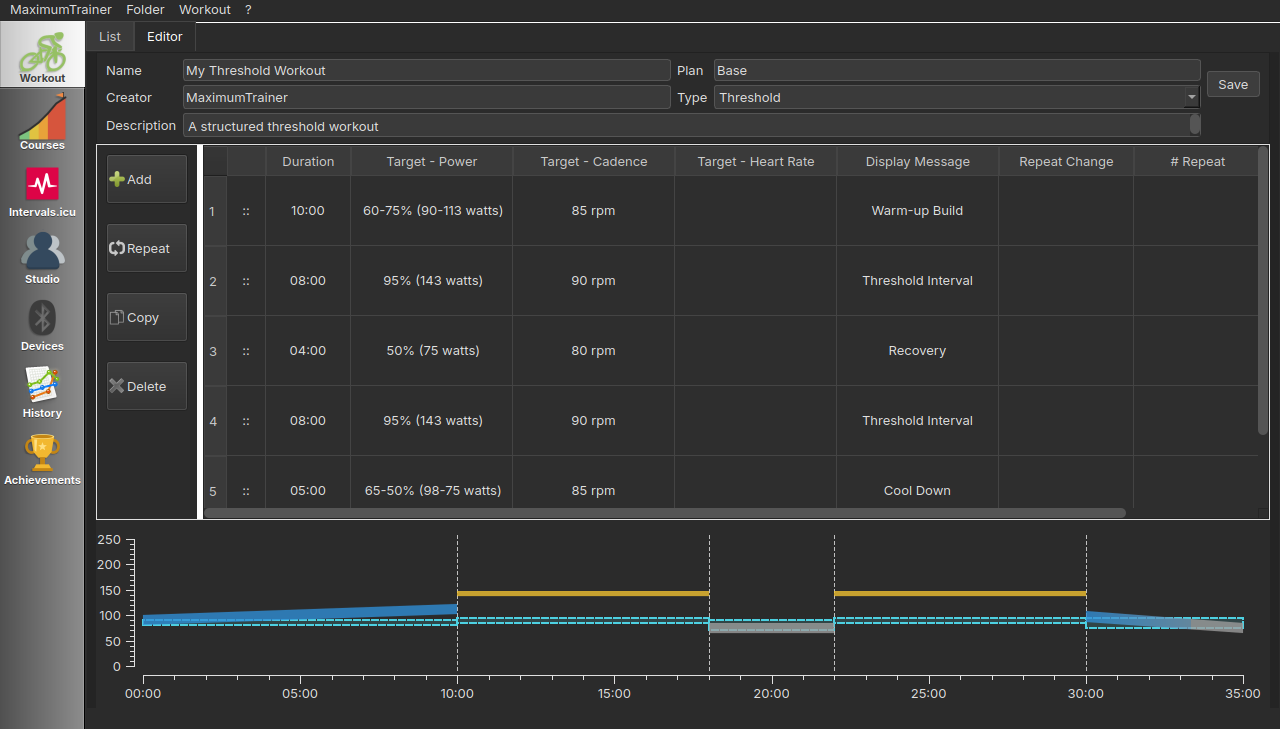
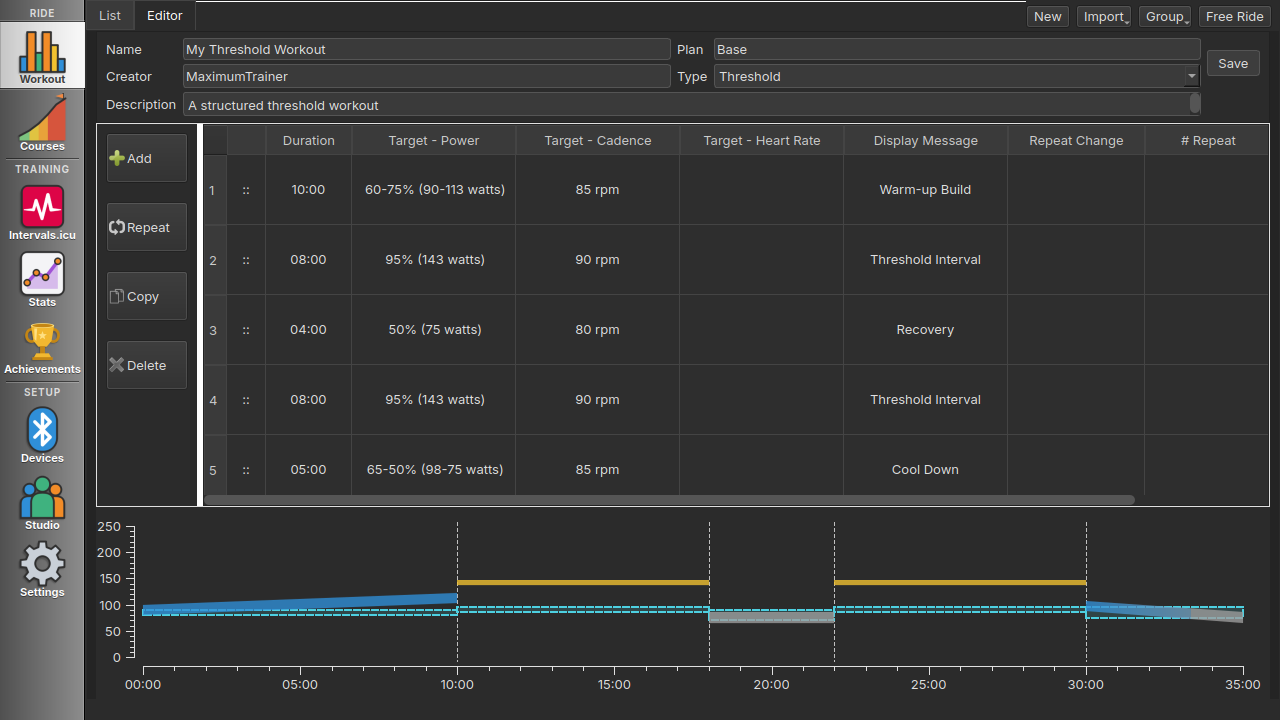
fix(group): only the Start button starts a group ride; docs and screenshots for the new layout

diff --git a/docs/user-guide.html b/docs/user-guide.html
@@ -517,10 +517,9 @@
         </p>
 
         <ol class="steps">
-          <li>Open <strong>MaximumTrainer → Preferences</strong> from the menu bar (or <kbd>Ctrl</kbd>+<kbd>,</kbd>).</li>
-          <li>Select the <strong>Profile</strong> category.</li>
-          <li>Enter your <strong>FTP</strong> (watts), <strong>LTHR</strong> (lactate-threshold heart rate, bpm), and <strong>weight</strong> (kg).</li>
-          <li>Click <strong>OK</strong>.</li>
+          <li>Click <strong>Settings</strong> in the left bar (or press <kbd>Ctrl</kbd>+<kbd>,</kbd>).</li>
+          <li>Select <strong>Profile</strong>.</li>
+          <li>Enter your <strong>FTP</strong> (watts), <strong>LTHR</strong> (lactate-threshold heart rate, bpm), and <strong>weight</strong> (kg). Changes apply right away.</li>
         </ol>
 
         <p>
@@ -592,8 +591,8 @@
 
         <figure class="guide-screenshot">
           <img src="assets/screenshots/screenshot_devices.png"
-               alt="Devices tab — saved sensors per role, plus trainer ERG, dropout, and battery settings" />
-          <figcaption>The Devices tab — pair a device per role with <strong>Scan…</strong>, toggle ERG control, and set sensor-dropout and battery options</figcaption>
+               alt="Devices tab — saved sensors per role, plus trainer ERG and simulated sensors" />
+          <figcaption>The Devices tab — pair a device per role with <strong>Scan…</strong>, toggle ERG control, or use simulated sensors</figcaption>
         </figure>
         <ol class="steps">
           <li>Wake the sensor you want to pair (see the table above).</li>
@@ -749,7 +748,7 @@
         <p>
           Maximum Trainer can drive workouts from an <strong>FTMS-compatible rowing
           machine</strong>. Enable <strong>Rowing mode (Beta)</strong> in
-          <strong>MaximumTrainer → Preferences → General</strong>:
+          <strong>Settings → General</strong>:
         </p>
         <ul>
           <li>The <strong>Devices</strong> tab shows a <strong>Rower</strong> slot in place of the
@@ -855,14 +854,14 @@
 
         <h3>Importing a single workout file</h3>
         <ol class="steps">
-          <li>Go to <strong>Workout → Import → Single Workout</strong> in the menu bar.</li>
+          <li>On the <strong>Workout</strong> tab, click <strong>Import → Single Workout</strong>.</li>
           <li>Navigate to your <code>.erg</code> or <code>.mrc</code> file and click <strong>Open</strong>.</li>
           <li>Maximum Trainer converts the file to its native XML format and adds it to your library.</li>
         </ol>
 
         <h3>Importing multiple workout files</h3>
         <ol class="steps">
-          <li>Go to <strong>Workout → Import → Multiple Workouts</strong>.</li>
+          <li>On the <strong>Workout</strong> tab, click <strong>Import → Multiple Workouts</strong>.</li>
           <li>Select one or more <code>.erg</code> / <code>.mrc</code> files.</li>
           <li>All selected files are converted and batch-imported at once.</li>
         </ol>
@@ -935,8 +934,7 @@
                 <td><strong>ERG</strong></td>
                 <td>
                   The app continuously adjusts trainer resistance so your actual power output
-                  matches the interval target. You only need to control cadence. If your cadence
-                  drops under 40 rpm or you pause, ERG lets go until you spin up again (optional, Devices, off by default).
+                  matches the interval target. You only need to control cadence.
                 </td>
                 <td>Structured interval workouts with power targets</td>
               </tr>
@@ -1042,7 +1040,7 @@
 
         <h3>How the workout starts</h3>
         <p>
-          Choose the trigger in the workout's <strong>Settings</strong> (the gear icon) under
+          Choose the trigger in <strong>Settings → Start &amp; alerts</strong> under
           <strong>Start workout when:</strong>
         </p>
         <div class="guide-table-wrap">
@@ -1087,14 +1085,15 @@
         <h3>Settings during a workout</h3>
         <p>
           Press the <strong>Settings</strong> gear in the workout player to change options without
-          interrupting the session (widgets and their style, timers, start trigger, Multimedia panel,
-          Radios). See <a href="#workout-config">Workout settings (in the player)</a> for the full list.
+          interrupting the session (radio, sounds, panels, graph, video, start and alerts). In a course it
+          shows only radio and sounds. See <a href="#workout-config">Workout settings (in the player)</a> for the full list.
         </p>
 
         <h3>The media panel</h3>
         <p>
-          The large panel beside the power graph can show one of two things. Choose which in the
-          workout's <strong>Settings</strong> (the gear icon) → <strong>Multimedia</strong>:
+          The large panel beside the power graph can show one of two things. Choose which in
+          <strong>Settings → Video &amp; radio</strong>, or in the workout's <strong>Settings</strong> under
+          <strong>Video</strong>:
         </p>
         <div class="guide-table-wrap">
           <table class="guide-table">
@@ -1109,8 +1108,8 @@
         <h3>Radio Player</h3>
         <p>
           Internet radio is separate from the panel above and plays on any mode. Its controls sit at
-          the <strong>top-right of the workout player</strong>; add your own stations in the workout's
-          <strong>Settings → Radios</strong> (they're saved for next time). You can also play, pause,
+          the <strong>top-right of the workout player</strong>; try stations and add your own in
+          <strong>Settings → Video &amp; radio</strong>. You can also play, pause,
           or skip with the <a href="#tips">radio shortcuts</a>.
         </p>
 
@@ -1137,7 +1136,7 @@
         <ol class="steps">
           <li>In the <strong>Workout</strong> tab, right-click a workout and choose
               <strong>Host Group Workout…</strong> (or select it and use
-              <strong>Workout → Host Group Workout…</strong> in the menu bar).</li>
+              <strong>Group → Host Group Workout…</strong> at the top right).</li>
           <li>Choose your connection method (<strong>BTLE Device</strong> or
               <strong>Simulation</strong>) as for any workout.</li>
           <li>The workout player opens with a <strong>Group ride</strong> column on the right.
@@ -1145,13 +1144,12 @@
               <code>7KQ2</code>) and send it to your friends.</li>
           <li>Riders appear in the column as they join. Someone still pairing their sensors shows
               <em>connecting sensors…</em> under their name.</li>
-          <li>When everyone is in, click <strong>Start group ride</strong> (or press
-              <kbd>Enter</kbd>). Everyone gets the same 10-second countdown and starts together.</li>
+          <li>When everyone is in, click <strong>Start group ride</strong>. Everyone gets the same 10-second countdown and starts together.</li>
         </ol>
 
         <h3>Joining a group workout</h3>
         <ol class="steps">
-          <li>Choose <strong>Workout → Join Group Workout…</strong> (<kbd>Ctrl</kbd>+<kbd>J</kbd>).</li>
+          <li>On the <strong>Workout</strong> tab, choose <strong>Group → Join Group Workout…</strong> (<kbd>Ctrl</kbd>+<kbd>J</kbd>).</li>
           <li>Enter the room code from the host and the name the other riders will see, then click
               <strong>Join</strong>. The host's workout downloads automatically.</li>
           <li>Choose your connection method and pair your sensors as usual.</li>
@@ -1230,7 +1228,7 @@
               <strong>Est. time</strong> column is your time riding alone at 70 % of your FTP (hover it for details).</li>
           <li>Set the number of <strong>Bots</strong> (20 by default, up to 50) and their <strong>Bot strength</strong>
               range in W/kg. Signed in with Intervals.icu, your weight comes from your profile there (change it there and restart
-              the app); otherwise you can edit it on this page or in Preferences.</li>
+              the app); otherwise you can edit it on this page or in Settings.</li>
           <li><strong>Double-click</strong> the course (or press <kbd>Enter</kbd>), choose your connection method, and
               click <strong>Start Course</strong>.</li>
         </ol>
@@ -1280,7 +1278,7 @@
           <strong>Upload activity</strong> section (see <a href="#uploading">Uploading</a>) and
           <strong>Heart rate on this workout</strong>: your average heart rate on the last six rides of
           it, with your lowest marked, and where today's efficiency ranks. The activity is written as a
-          <code>.fit</code> file to your history folder; its numbers match the History tab.
+          <code>.fit</code> file to your history folder; its numbers match the Stats tab.
         </p>
         <p>
           <strong>Keep riding:</strong> once the workout finishes, a controlled trainer leaves ERG so you
@@ -1305,14 +1303,14 @@
 
         <div class="callout">
           <strong>Where are my files?</strong> Activity files are saved to your system's
-          Documents folder under <code>MaximumTrainer / History</code>.
+          Documents folder under <code>MaximumTrainer / History</code>. Open it from <strong>Settings → Files &amp; logs</strong>.
         </div>
 
         <p>
-          The <strong>History</strong> tab lists every saved ride. At the top it shows your weekly goal, this week's
+          The <strong>Stats</strong> tab shows your weekly goal, this week's
           rides, time, TSS and distance (each compared with last week) and a bar chart of your
-          weekly TSS over the last 12 weeks - hover a bar for that week's totals. Double-click a
-          ride to see its graphs, laps and the achievements you earned on it.
+          weekly TSS over the last 12 weeks - hover a bar for that week's totals. Below, <strong>History</strong>
+          lists every saved ride: double-click a ride to see its graphs, laps and the achievements you earned on it.
         </p>
         <p>
           <strong>Weekly goal:</strong> click <em>Set a weekly goal</em> (or <em>change</em>) on the
@@ -1363,7 +1361,7 @@
               (<em>your best of the last 90 days was 298 W</em>) or <em>New all-time 5 min best</em>.
               It appears a few seconds after the effort ends, with its peak value, and each record
               is announced at most once per ride. Your first ride has nothing to beat, so it is quiet.
-              See them at the top of the Achievements tab and in History &gt; <a href="#saving-activity">Power Curve</a>.</li>
+              See them at the top of the Achievements tab and in Stats &gt; <a href="#saving-activity">Power Curve</a>.</li>
           <li><strong>After the ride</strong>, new achievements are listed on the <em>Workout Complete!</em>
               panel (workout counts, total hours and distance, streaks, W/kg, group workouts you hosted or joined, your first test, a raised FTP...).</li>
         </ul>
@@ -1393,8 +1391,7 @@
 
         <h3>Linking a platform (one-time setup)</h3>
         <ol class="steps">
-          <li>Open <strong>Preferences</strong>.</li>
-          <li>Select the <strong>Strava</strong> category.</li>
+          <li>Open <strong>Settings → Accounts</strong>.</li>
           <li>Click <strong>Connect to Strava</strong>.</li>
           <li>Your system browser opens for you to authorise Maximum Trainer. Log in, click <strong>Authorise</strong>, then return to the app.</li>
           <li>Maximum Trainer now shows Strava as <em>linked</em> with a green tick.</li>
@@ -1406,7 +1403,7 @@
           <li><strong>Auto-upload on</strong> — the activity uploads on its own and the panel shows the status; nothing to click.</li>
           <li><strong>Auto-upload off</strong> — the panel shows an <strong>Upload to Strava</strong> / <strong>Upload to Intervals.icu</strong> button; click it to upload the <code>.fit</code> file.</li>
         </ul>
-        <p>Toggle auto-upload per platform in <strong>Preferences → Strava</strong> and <strong>Preferences → Intervals.icu</strong>.</p>
+        <p>Toggle auto-upload per platform in <strong>Settings → Accounts</strong>.</p>
 
       </section>
 
@@ -1414,58 +1411,37 @@
       <section class="guide-section" id="settings">
         <h2>⚙ Settings</h2>
         <p>
-          Maximum Trainer has <strong>two</strong> settings dialogs. <strong>Preferences</strong>
-          (<strong>MaximumTrainer → Preferences</strong>, or <kbd>Ctrl</kbd>+<kbd>,</kbd>) holds your account-wide options, organised
-          into the categories below. Display options that apply only while you ride live in a separate
-          dialog — see <a href="#workout-config">Workout settings</a> further down.
+          Every option is in the <strong>Settings</strong> tab of the left bar
+          (<kbd>Ctrl</kbd>+<kbd>,</kbd>). Changes apply right away.
         </p>
 
         <figure class="guide-screenshot">
           <img src="assets/screenshots/screenshot_settings.png"
-               alt="Preferences dialog — General, Profile and Logging app settings, with Strava and Intervals.icu integrations grouped below" />
-          <figcaption>Preferences — app settings (General, Profile, Logging) above the divider; the Strava and Intervals.icu integrations below it</figcaption>
+               alt="The Settings tab: You, Ride and App sections, with the ride screen options open" />
+          <figcaption>The Settings tab</figcaption>
         </figure>
 
         <div class="guide-table-wrap">
           <table class="guide-table">
-            <thead><tr><th>Category</th><th>What you can configure</th></tr></thead>
+            <thead><tr><th>Section</th><th>What you can configure</th></tr></thead>
             <tbody>
-              <tr>
-                <td><strong>General</strong></td>
-                <td>Distance unit (km / miles), app theme (System / Light / Dark), "force the workout window to stay on top", and <a href="#rowing-beta">Rowing mode (Beta)</a></td>
-              </tr>
-              <tr>
-                <td><strong>Profile</strong></td>
-                <td>Your FTP (W), LTHR (bpm), and weight (kg) — used for training zones, W/kg, and ERG targets. Read-only when signed in with Intervals.icu (they come from your Intervals.icu profile).</td>
-              </tr>
-              <tr>
-                <td><strong>Logging</strong></td>
-                <td>
-                  Set the minimum log level, enable or disable writing to a log file, choose the log
-                  file path, and open the log folder. See
-                  <a href="#log-files">Log Files &amp; Troubleshooting</a> for default paths.
-                </td>
-              </tr>
-              <tr>
-                <td><strong>Strava</strong> <span style="opacity:.6">(integration)</span></td>
-                <td>Link / unlink your Strava account and toggle auto-upload of completed activities</td>
-              </tr>
-              <tr>
-                <td><strong>Intervals.icu</strong> <span style="opacity:.6">(integration)</span></td>
-                <td>Auto-upload of completed activities</td>
-              </tr>
+              <tr><td><strong>Profile</strong></td><td>Your FTP (W), LTHR (bpm), and weight (kg) — used for training zones, W/kg, and ERG targets. Read-only when signed in with Intervals.icu (they come from your Intervals.icu profile).</td></tr>
+              <tr><td><strong>Accounts</strong></td><td>Intervals.icu and Strava, auto-upload, and Log Out</td></tr>
+              <tr><td><strong>Start &amp; alerts</strong></td><td>How a workout starts, interval messages and summary, sensor dropout, battery warning</td></tr>
+              <tr><td><strong>Ride screen</strong></td><td>Top bar, bottom panels and graph lines</td></tr>
+              <tr><td><strong>Sounds</strong></td><td>Workout sounds, off-target alerts and volume</td></tr>
+              <tr><td><strong>Video &amp; radio</strong></td><td>The <a href="#workout-player">video / web</a> panel, and the radio stations</td></tr>
+              <tr><td><strong>General</strong></td><td>Distance unit, app theme, "force the workout window to stay on top", and <a href="#rowing-beta">Rowing mode (Beta)</a></td></tr>
+              <tr><td><strong>Files &amp; logs</strong></td><td>Open the rides and workouts folders; log level and log file. See <a href="#log-files">Log Files &amp; Troubleshooting</a>.</td></tr>
+              <tr><td><strong>Help &amp; about</strong></td><td>User guide, keyboard shortcuts, version</td></tr>
             </tbody>
           </table>
         </div>
 
         <h3 id="workout-config">Workout settings (in the player)</h3>
         <p>
-          Options that apply only while you ride live in their own dialog — open it with the
-          <strong>Settings</strong> gear in the workout player. There you choose which metric widgets
-          are shown (power, HR, cadence, speed, balance, SmO₂), the timer style, which lines the graph
-          draws, workout sounds and off-target alerts, the
-          <strong>Multimedia</strong> panel type (<a href="#workout-player">video / web</a>),
-          and your <strong>Radios</strong>.
+          The <strong>Settings</strong> gear in the workout player opens the same ride options while you
+          ride: radio, sounds, panels, graph, video, start and alerts.
         </p>
       </section>
 
@@ -1479,7 +1455,7 @@
         </p>
         <p>
           Riding with friends somewhere else? Use a <a href="#group-workouts">group workout</a>
-          (<strong>Workout → Host Group Workout…</strong>) instead, with Studio Mode off.
+          (<strong>Group → Host Group Workout…</strong>) instead, with Studio Mode off.
         </p>
 
         <figure class="guide-screenshot">
@@ -1529,7 +1505,7 @@
 
         <h3>Logging settings</h3>
         <p>
-          In <strong>Preferences → Logging</strong> you can set the <strong>Minimum level</strong>
+          In <strong>Settings → Files &amp; logs</strong> you can set the <strong>Minimum level</strong>
           (Verbose, Debug, Info, Warning, Error; Info is the default), turn
           <strong>Write log to file</strong> off or back on, and pick another file with
           <strong>Browse…</strong>. The line under the path shows the default file for your computer.
@@ -1674,7 +1650,7 @@
               </tr>
               <tr>
                 <td>Upload to Strava fails</td>
-                <td>Re-link your Strava account in Preferences → Strava. OAuth tokens expire; re-linking refreshes them.</td>
+                <td>Re-link your Strava account in Settings → Accounts. OAuth tokens expire; re-linking refreshes them.</td>
               </tr>
               <tr>
                 <td>No sound / internet radio silent on a fresh Windows install</td>
@@ -1737,7 +1713,7 @@
           <table class="guide-table">
             <thead><tr><th>Key</th><th>Action</th></tr></thead>
             <tbody>
-              <tr><td><kbd>Ctrl</kbd>+<kbd>,</kbd></td><td>Open Preferences</td></tr>
+              <tr><td><kbd>Ctrl</kbd>+<kbd>,</kbd></td><td>Open Settings</td></tr>
               <tr><td><kbd>Ctrl</kbd>+<kbd>N</kbd></td><td>Create new workout</td></tr>
               <tr><td><kbd>Ctrl</kbd>+<kbd>J</kbd></td><td>Join a group workout</td></tr>
               <tr><td><kbd>Ctrl</kbd>+<kbd>Q</kbd></td><td>Quit application</td></tr>
@@ -1872,7 +1848,7 @@
           If that folder cannot be written, the app writes the log to the system temp folder instead:
           <code>%TEMP%\MaximumTrainer.log</code> on Windows, and <code>$TMPDIR/MaximumTrainer.log</code>
           on macOS and Linux (on Linux that is usually <code>/tmp/MaximumTrainer.log</code>).
-          If you set a custom path in <strong>Preferences → Logging</strong>, the log moves there once the
+          If you set a custom path in <strong>Settings → Files &amp; logs</strong>, the log moves there once the
           configuration has loaded. See <a href="#log-files">Log Files &amp; Troubleshooting</a> for details.
         </p>
 

diff --git a/docs/index.html b/docs/index.html
@@ -264,9 +264,9 @@
 
         <div class="gallery-item">
           <img src="assets/screenshots/screenshot_settings.png"
-               alt="Preferences — account settings, profile, and integrations"
+               alt="Settings — every option in one place"
                loading="lazy" />
-          <div class="gallery-caption">Preferences — profile &amp; integrations</div>
+          <div class="gallery-caption">Settings — everything in one place</div>
         </div>
 
         <div class="gallery-item">

diff --git a/src/ui/workoutdialog.cpp b/src/ui/workoutdialog.cpp
@@ -1499,13 +1499,11 @@ void WorkoutDialog::start_or_pause_workout() {
         return;
     }
 
-    // In a group workout nobody starts alone: the host's Enter/Start schedules
-    // the shared start, and pedalling triggers wait for it.
-    if (!isWorkoutStarted && m_groupRide && m_groupRide->awaitingStart()) {
-        if (m_groupRide->isHost())
-            m_groupRide->requestStart();
+    // In a group workout only the host's Start group ride button schedules the
+    // shared start. Keys and pedalling never do: Enter also sends chat messages,
+    // and it would start the ride for everyone.
+    if (!isWorkoutStarted && m_groupRide && m_groupRide->awaitingStart())
         return;
-    }
 
     // If workout not started, we start it
     if (!isWorkoutStarted) {
@@ -2671,7 +2669,7 @@ void WorkoutDialog::setMessagePlot() {
             const qint64 remainingMs = m_groupRide->scheduledStartLocalMs() - QDateTime::currentMSecsSinceEpoch();
             groupMessage = tr("Group ride starts in %1 s").arg((qMax<qint64>(0, remainingMs) + 999) / 1000);
         } else if (m_groupRide->isHost()) {
-            groupMessage = tr("When everyone is ready, press Enter or Start group ride");
+            groupMessage = tr("When everyone is ready, click Start group ride");
         } else {
             groupMessage = tr("Waiting for the host to start the group ride");
         }

diff --git a/src/ui/mainwindow_harness.cpp b/src/ui/mainwindow_harness.cpp
@@ -356,10 +356,10 @@ void MainWindow::screenshotNextStep()
         qInfo() << "Screenshot: main_window";
         ftb->setCurrentIndex(m_tabs.settings);
         for (const auto &[section, name] : std::initializer_list<std::pair<SettingsPage::Section, const char *>>{
-                 {SettingsPage::Section::Profile, "settings"},
+                 {SettingsPage::Section::Profile, "settings_profile"},
                  {SettingsPage::Section::Accounts, "settings_accounts"},
                  {SettingsPage::Section::Ride, "settings_ride"},
-                 {SettingsPage::Section::RideScreen, "settings_ride_screen"},
+                 {SettingsPage::Section::RideScreen, "settings"},
                  {SettingsPage::Section::Sounds, "settings_sounds"},
                  {SettingsPage::Section::Media, "settings_media"},
                  {SettingsPage::Section::General, "settings_general"},

diff --git a/src/group/grouppanel.cpp b/src/group/grouppanel.cpp
@@ -72,7 +72,7 @@ GroupPanel::GroupPanel(GroupSession *session, QWidget *parent)
     connect(m_ridersModel, &QAbstractItemModel::modelReset, this, &GroupPanel::refreshStatus);
 
     m_startButton = new QPushButton(tr("Start group ride"), this);
-    m_startButton->setToolTip(tr("Everyone starts together 10 seconds after you press this (or Enter)"));
+    m_startButton->setToolTip(tr("Everyone starts together 10 seconds after you press this"));
     m_startButton->setFocusPolicy(Qt::NoFocus);
     layout->addWidget(m_startButton);
 

diff --git a/README.md b/README.md
@@ -73,13 +73,13 @@ For everything about **using** the app — pairing sensors, finding / importing 
 
 | Devices — pairing & trainer config |
 |------------------------------------|
-| ![Devices tab — pair a sensor per role, toggle ERG control, and set dropout and battery options](docs/assets/screenshots/screenshot_devices.png) |
+| ![Devices tab — pair a sensor per role, toggle ERG control, or use simulated sensors](docs/assets/screenshots/screenshot_devices.png) |
 
 | Workout in progress |
 |---------------------|
 | ![Workout player — video, interval graph, and live power, heart rate, and cadence](docs/assets/screenshots/screenshot_workout_running.png) |
 
-| Courses (Beta) - ride Alpe d'Huez, Mont Ventoux or Longchamp against bots |
+| Courses (Beta) - ride Alpe d'Huez, Mont Ventoux, Central Park or Longchamp against bots |
 |---------------------------------------------------------------------------|
 | ![Course in progress - route from above with the riders, standings, live metrics, and the climb coloured by gradient](docs/assets/screenshots/screenshot_course_race.png) |
 
